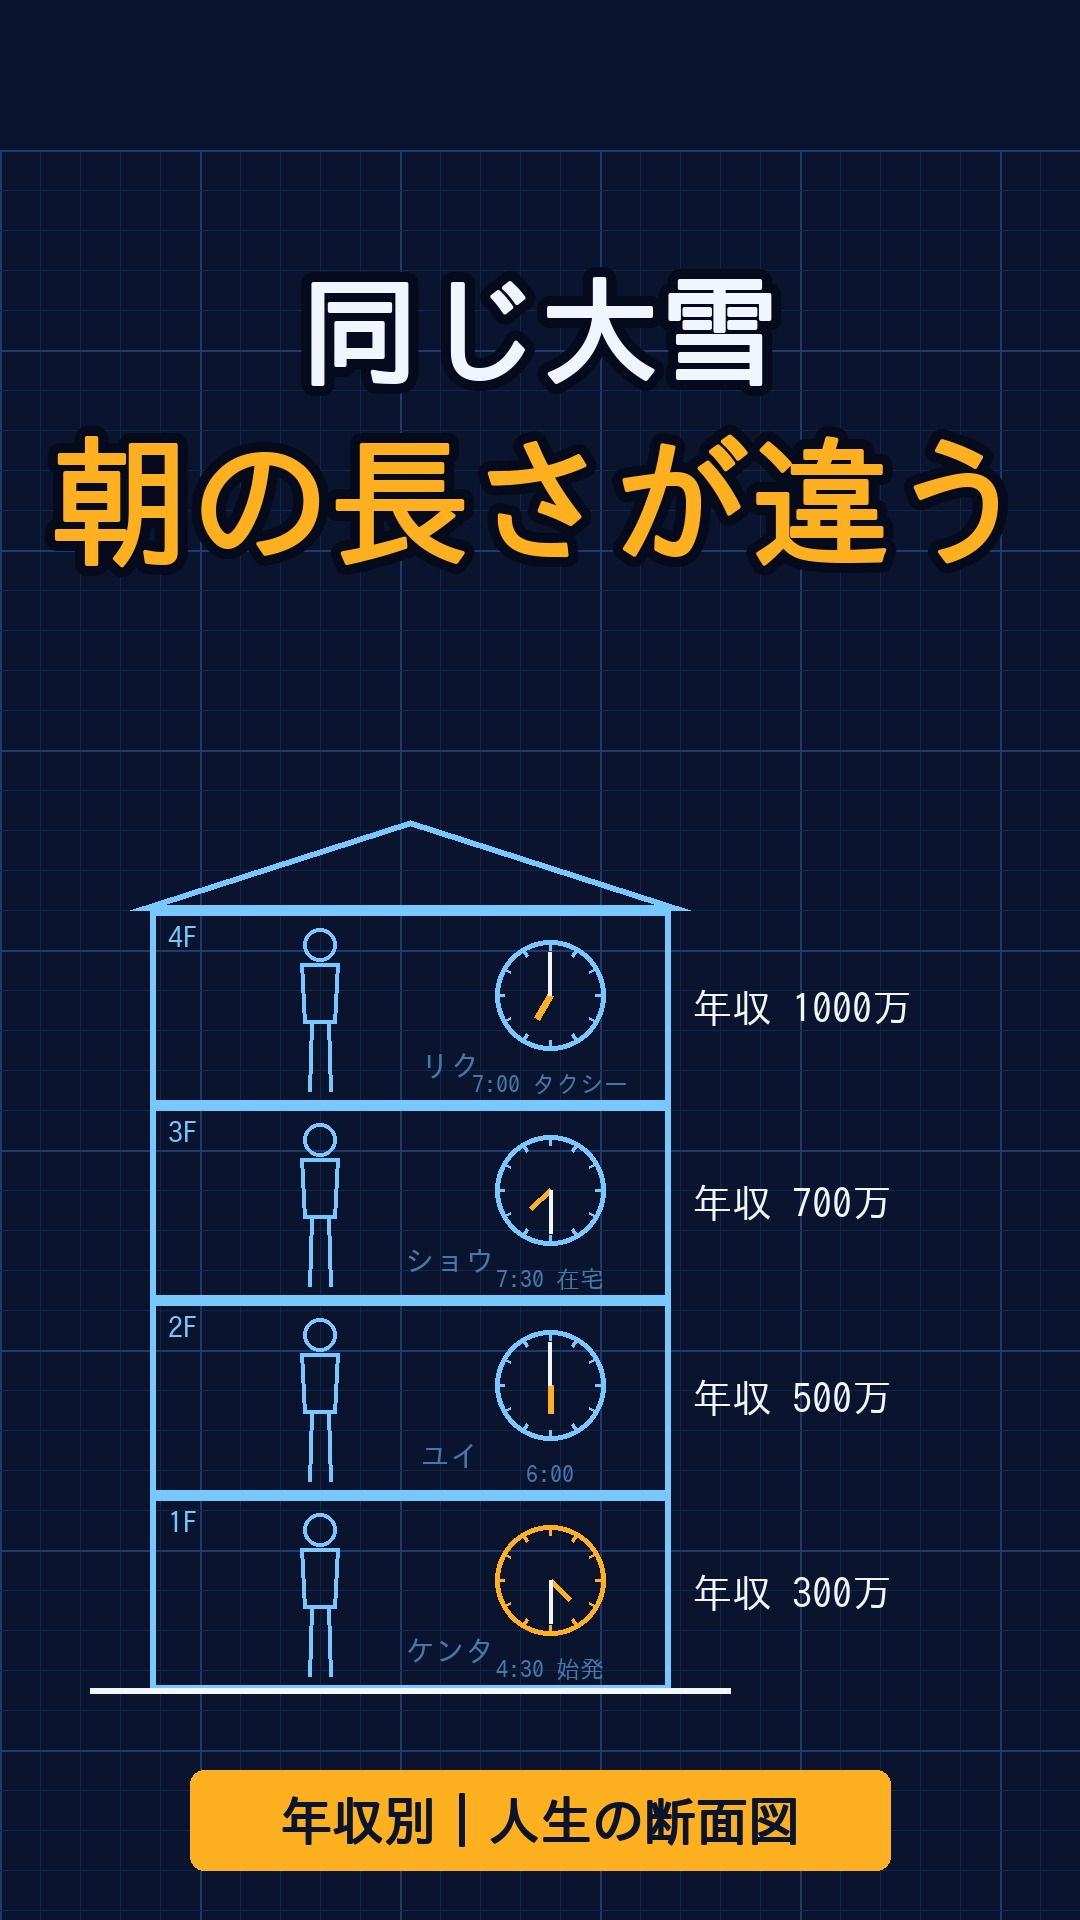
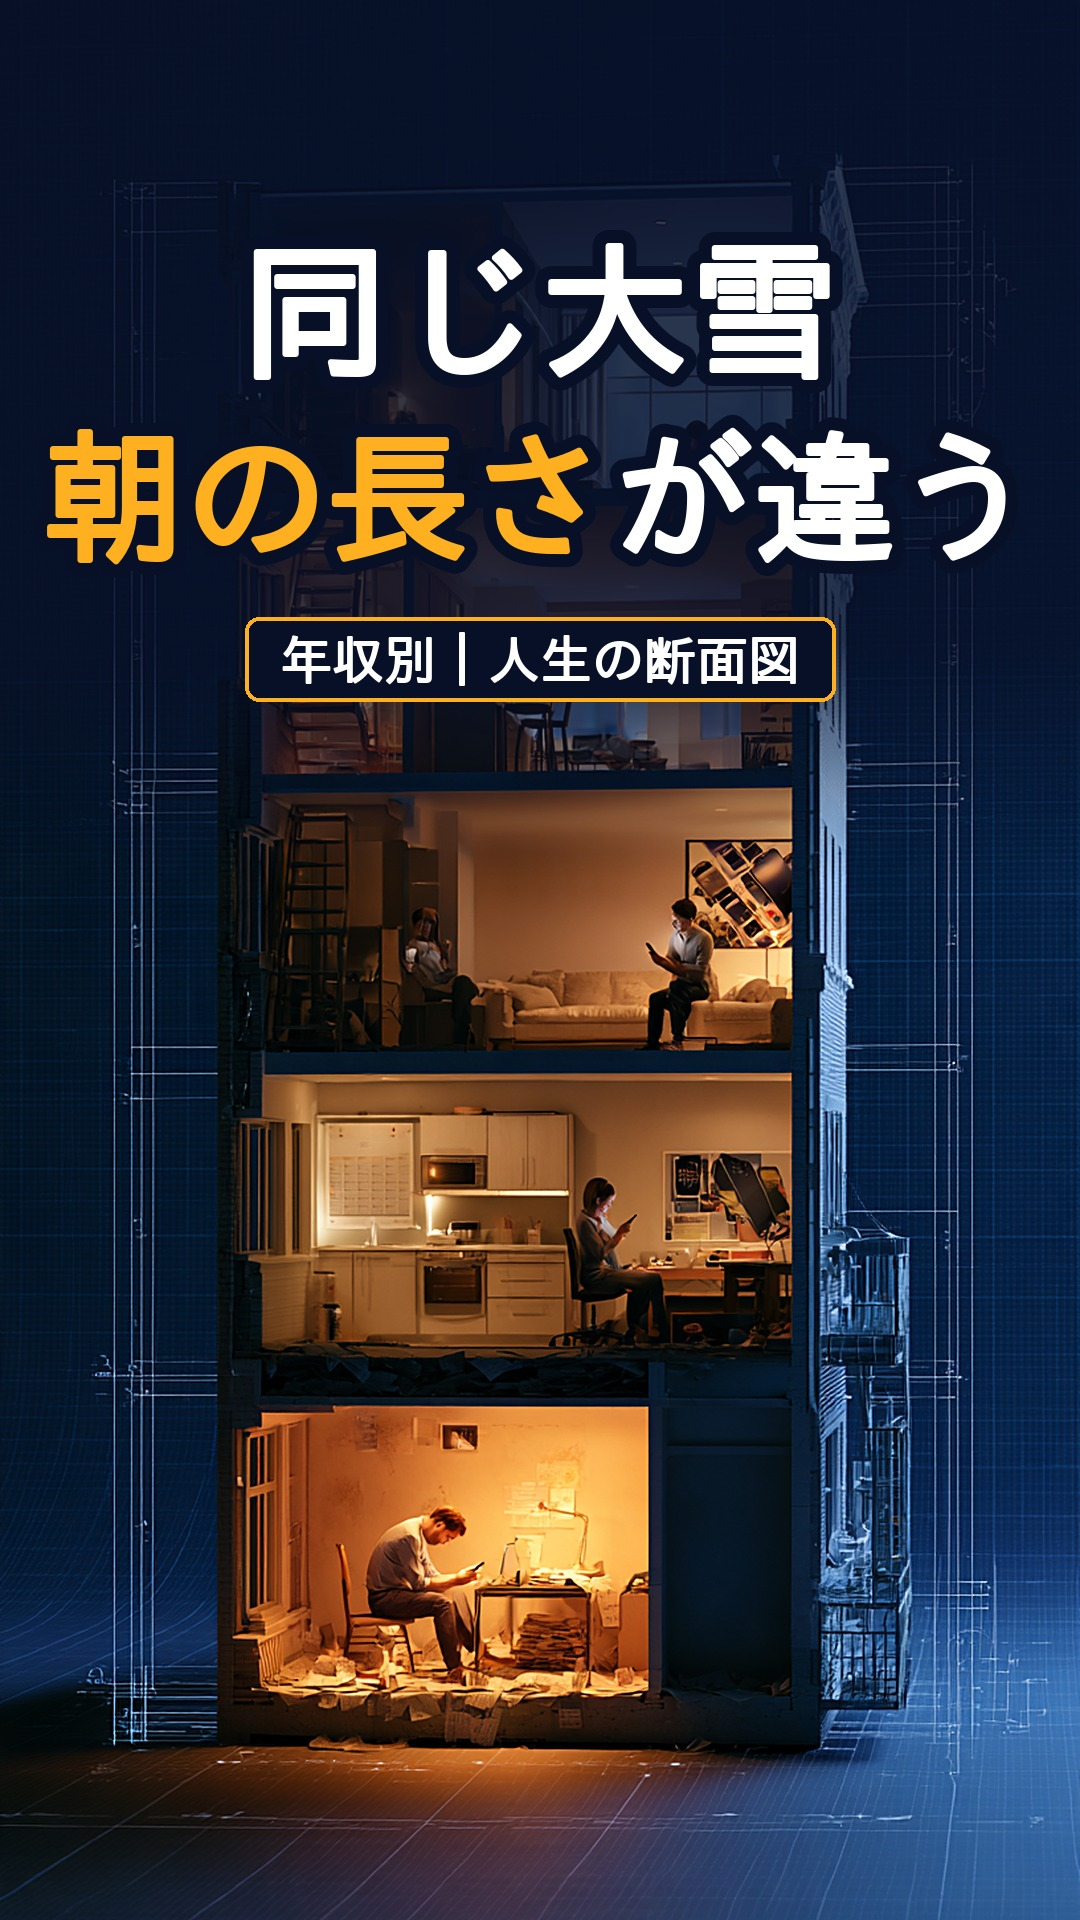
ショート10本のサムネを作り直し：ミニチュア模型の絵＋文字を一覧で切られない位置に
- make_thumbs_mj.py：Midjourney の文字なしの絵に Pillow で文字（上から230px より下、帯は問いの直下）
- 6〜10は1〜5で使わなかった Midjourney の案を流用（追加クレジットなし）
- スキルにサムネの安全範囲と好みを追記

Claude-Session: https://claude.ai/code/session_013GWWgBpufckwWKyPRohvje

diff --git a/channel_produce/shorts/make_thumbs_mj.py b/channel_produce/shorts/make_thumbs_mj.py
@@ -1,0 +1,110 @@
+"""ショートのサムネ：Midjourney の文字なしの絵（ビルの断面のミニチュア）に、Pillow で文字を入れる。
+
+python channel_produce/shorts/make_thumbs_mj.py        → 10本とも
+python channel_produce/shorts/make_thumbs_mj.py 6 7    → 指定した回だけ
+
+各フォルダの「サムネ素材_mj.png」（Midjourney の 9:16）を下絵にして「サムネイル.jpg」（1080×1920）を書き出す。
+
+文字の位置（2026-11-25 ヒロキの指摘）：チャンネルのショート一覧は 9:16 の上下を約8%ずつ切って 2:3 で見せるため、
+1行目が隠れていた。文字と帯は上から 230px より下にまとめ、一番下には何も置かない（一覧で切られ、1階の部屋も隠れるため）。
+文字は GPT Image を使わず Pillow で入れる（クレジット節約、字も崩れない）。
+"""
+import re
+import sys
+from pathlib import Path
+
+from PIL import Image, ImageDraw, ImageFilter
+
+from blueprint import font
+
+HERE = Path(__file__).resolve().parent
+W, H = 1080, 1920
+SAFE = 230            # 一覧で切られる上下の幅（約150px）＋余白
+AMBER = (255, 176, 32)
+WHITE = (255, 255, 255)
+NAVY = (8, 16, 40)
+
+# 回: (フォルダ, 1行目, 2行目, 下の帯)。{ } で囲んだ所がアンバー
+THUMBS = {
+    1: ("01_年収_同じ3万円", "同じ{3万円}が", "なぜこんなに{重い}？", "年収別｜人生の断面図"),
+    2: ("02_世代_同じニュース", "株価最高値", "なぜ{世代}で違う？", "世代別｜人生の断面図"),
+    3: ("03_IQ_同じ迷路", "同じ迷路が", "{IQ}でこう見える", "IQ別｜人生の断面図"),
+    4: ("04_AI_同じ明日までに", "明日までに", "{AI}で帰る時間が違う", "AIの使い方別｜人生の断面図"),
+    5: ("05_会社の大きさ_同じアイデア", "同じアイデア", "{判子}の数が違う", "会社の大きさ別｜人生の断面図"),
+    6: ("06_大雪の朝", "同じ大雪", "{朝の長さ}が違う", "年収別｜人生の断面図"),
+    7: ("07_自分の時間30分", "自分の時間は", "1日{30分}", "年収別｜人生の断面図"),
+    8: ("08_時間を買う", "家事にお金を", "{払う}？払わない？", "年収別｜人生の断面図"),
+    9: ("09_ちょっとした知り合い", "仕事を運ぶのは", "{親友}じゃない", "年収別｜人生の断面図"),
+    10: ("10_20年後の手紙", "20年前の自分から", "{手紙}が届いた", "年収別｜人生の断面図"),
+}
+
+
+def parts(s):
+    """「同じ{3万円}が」→ [("同じ", 白), ("3万円", アンバー), ("が", 白)]"""
+    out = []
+    for k, piece in enumerate(re.split(r"[{}]", s)):
+        if piece:
+            out.append((piece, AMBER if k % 2 else WHITE))
+    return out
+
+
+def line_width(s, size):
+    return font(size).getlength(s.replace("{", "").replace("}", ""))
+
+
+def heavy_line(d, cy, s, size):
+    """1行を中央ぞろえで描く。黒紺の太い縁＋同じ色の細い縁で極太に見せる"""
+    f = font(size)
+    x = (W - line_width(s, size)) / 2
+    for piece, color in parts(s):
+        d.text((x, cy), piece, font=f, fill=color, anchor="lm", stroke_width=16, stroke_fill=NAVY)
+        x += f.getlength(piece)
+    x = (W - line_width(s, size)) / 2
+    for piece, color in parts(s):
+        d.text((x, cy), piece, font=f, fill=color, anchor="lm", stroke_width=3, stroke_fill=color)
+        x += f.getlength(piece)
+
+
+def fit(s, max_w, start):
+    size = start
+    while size > 50 and line_width(s, size) > max_w:
+        size -= 4
+    return size
+
+
+def make(n):
+    folder, l1, l2, band = THUMBS[n]
+    src = HERE / folder / "サムネ素材_mj.png"
+    im = Image.open(src).convert("RGB")
+    scale = max(W / im.width, H / im.height)
+    im = im.resize((round(im.width * scale), round(im.height * scale)), Image.LANCZOS)
+    im = im.crop(((im.width - W) // 2, (im.height - H) // 2, (im.width - W) // 2 + W, (im.height - H) // 2 + H))
+    im = im.filter(ImageFilter.UnsharpMask(2, 50, 3))
+    # 文字の後ろ（上の方）と帯の後ろ（下の方）だけ暗くする
+    shade = Image.new("L", (W, H), 0)
+    sd = ImageDraw.Draw(shade)
+    for y in range(H):
+        top = max(0.0, 1 - max(0, y - 640) / 240) if y < 880 else 0.0
+        sd.line([(0, y), (W, y)], fill=int(210 * top))
+    im = Image.composite(Image.new("RGB", (W, H), NAVY), im, shade)
+    d = ImageDraw.Draw(im)
+    s1 = fit(l1, W - 90, 150)
+    s2 = fit(l2, W - 70, 170)
+    y_1 = SAFE + 80
+    y_2 = y_1 + s1 // 2 + s2 // 2 + 40
+    heavy_line(d, y_1, l1, s1)
+    heavy_line(d, y_2, l2, s2)
+    # 帯は問いのすぐ下（一番下に置くと、一覧で切られるうえ、1階の部屋を隠すため）
+    bs = fit(band, W - 300, 52)
+    bw = font(bs).getlength(band) + 70
+    by = y_2 + s2 // 2 + 50
+    d.rounded_rectangle([(W - bw) / 2, by, (W + bw) / 2, by + 84], radius=14, fill=NAVY, outline=AMBER, width=4)
+    d.text((W / 2, by + 42), band, font=font(bs), fill=WHITE, anchor="mm", stroke_width=1, stroke_fill=WHITE)
+    out = HERE / folder / "サムネイル.jpg"
+    im.save(out, quality=92)
+    print("ok:", out)
+
+
+if __name__ == "__main__":
+    for n in ([int(a) for a in sys.argv[1:]] or sorted(THUMBS)):
+        make(n)

diff --git a/.claude/skills/jinsei-danmen/SKILL.md b/.claude/skills/jinsei-danmen/SKILL.md
@@ -107,7 +107,9 @@ description: ヒロキの新しいYouTubeチャンネル「人生の断面図」
 
 - タイトル：「なぜ〇〇は、〜のか」の問い。答えは書かない。40文字以内。数字を入れる（「890万人」「S・A・B・C」）。**【組織行動学】【行動経済学】など学問名を付けるテストをする**（競合3チャンネルが使用、夜ふかしは未使用）。「9割が知らない」は使わない
 - 説明欄：中身の一言→「あなたは何階？」→出典→注意書き→チャンネル紹介→ハッシュタグ3〜5個
-- サムネ：Midjourney で文字なしの絵（縦に切ったビルの断面のミニチュア模型、紺の方眼、1つの階だけアンバー、上3分の1は空ける）→ GPT Image で文字だけ入れる。上に問い（白の極太、キーワードだけアンバー）、下に「〇〇別｜人生の断面図」
+- サムネ：Midjourney で文字なしの絵（縦に切ったビルの断面のミニチュア模型、紺の方眼、夜の部屋の灯り）→ **Pillow で文字を入れる**（`channel_produce/shorts/make_thumbs_mj.py`。GPT Image より安く、字も崩れない）。上に問い2行（白の極太、キーワードだけアンバー）、そのすぐ下に「〇〇別｜人生の断面図」の帯。ヒロキの好み（2026-11-25）：設計図風の線画ではなく、この**ミニチュア模型の写真風**
+- **ショートのサムネの安全範囲**：チャンネルのショート一覧は 9:16 の上下を約8%ずつ切って見せる（2026-11-25、1行目が隠れていた）。文字と帯は**上から230px より下**にまとめ、一番下には何も置かない（切られるうえ、1階の部屋が隠れる）
+- Midjourney は1回で4案出るので、使わなかった案を別の回のサムネに回す（ショート6〜10は1〜5の残りの案で作り、追加クレジット0）
 - Midjourney と GPT Image は TapNow（接続済みの場合）から使える。費用は TapNow のポイント（目安：Midjourney 1回4案で約20、GPT Image 1枚約25）。midjourney.com をブラウザで自動操作するのは利用規約違反なのでしない
 
 ひな形：`references/タイトル_説明欄_サムネ.md`
@@ -139,7 +141,7 @@ description: ヒロキの新しいYouTubeチャンネル「人生の断面図」
    - 読み間違えやすい語はかなにしてから読ませる：IQ→アイキュー、AI→エーアイ、Z世代→ゼット世代、4人→よにん、1000万→せんまん、1000人→せんにん、7つ→ななつ、1つ→ひとつ、何階→なんかい、何世代→なんせだい、1階→いっかい、稟議→りんぎ、判子→はんこ
 2. `python channel_produce/shorts/split_narration.py <フォルダ> <ナレーション.mp3>`：無音と各場面の文字数から境目を選んで `narr/S01.mp3`… に切る（短い間を境目と取り違えないよう、文字数から予想した位置に近い無音を選ぶ）
 3. `python channel_produce/shorts/render_final.py <フォルダ>`：場面の長さ＝ナレーション＋間に合わせて映像（動く mp4／画像はゆっくりズーム）・テロップ（「や（の前、、。の後で改行）・効果音を組み、-14 LUFS にそろえて `完成_ナレーション入り.mp4` を出す（Resolve なしで投稿できる）
-4. サムネ：Midjourney（TapNow の midjourney-v8.2、9:16、4案）→ 一番良い案を選ぶ（上に文字の空き、4階がはっきり、1つの階がアンバー）→ GPT Image（gpt-image-2.6-sunburst）で文字だけ入れる → 1080×1920 の `サムネイル.jpg`。ショート5本は 1C・2D・3D・4C・5C を採用
+4. サムネ：Midjourney（TapNow の midjourney-v8.2、9:16、4案）→ 一番良い案を選ぶ（上に文字の空き、4階がはっきり、1つの階がアンバー）→ `make_thumbs_mj.py` で文字を入れる → 1080×1920 の `サムネイル.jpg`。採用：1C・2D・3D・4C・5C、6〜10は 1A・4A・1D・4D・1B（各フォルダの `サムネ素材_mj.png`）
 - TapNow の生成物は `files.tapnow.media` から curl でダウンロードできる（環境の許可済みホスト）
 
 **長尺を仕上げる流れ（2026-11-25 第1弾で確立）**
@@ -149,7 +151,7 @@ description: ヒロキの新しいYouTubeチャンネル「人生の断面図」
 4. `render_final.py <フォルダ> --landscape --subtitles`：横長・字幕焼き込み（。？！で区切り、30字超は真ん中の、で分ける）。62枚で20〜30分かかる
 5. サムネ：Midjourney 16:9（ビルを右3分の1、左は空ける）→ `make_long01_thumb.py` で Pillow で文字を入れる（1280×720）
 
-**クレジット節約（2026-11-25 ヒロキの要望）**：絵は Pillow（無料）、ナレーションは TapNow ElevenLabs（長尺4回＋ショート5回で約0.5）、Midjourney は長尺サムネの1回だけ（約20）。文字入れは GPT Image を使わず Pillow（無料、字も崩れない）。ショートのサムネも各回の絵＋Pillow の文字（`make_thumbs_6to10.py`）。費用は作る前と後に get_tapies_balance で残高を見て記録する（ナレーションの単価は文字数で変わるため、見積もりより実測を使う）
+**クレジット節約（2026-11-25 ヒロキの要望）**：絵は Pillow（無料）、ナレーションは TapNow ElevenLabs（長尺4回＋ショート5回で約0.5）、Midjourney は長尺サムネの1回だけ（約20）。文字入れは GPT Image を使わず Pillow（無料、字も崩れない）。ショートのサムネは Midjourney の残りの案＋Pillow の文字（`make_thumbs_mj.py`）。費用は作る前と後に get_tapies_balance で残高を見て記録する（ナレーションの単価は文字数で変わるため、見積もりより実測を使う）
 
 - 台本 script.md → `autoedit.py "<動画フォルダ>" --motion alternate` で DaVinci Resolve に組み上げ（画像はゆっくりズーム、テロップは Text+、効果音は se/K01_〜.wav）
 - ショートの素材：`channel_produce/shorts/make_short01.py`、`make_shorts_2to5.py`（絵の部品は `blueprint.py`、効果音は `sfx.py`）
